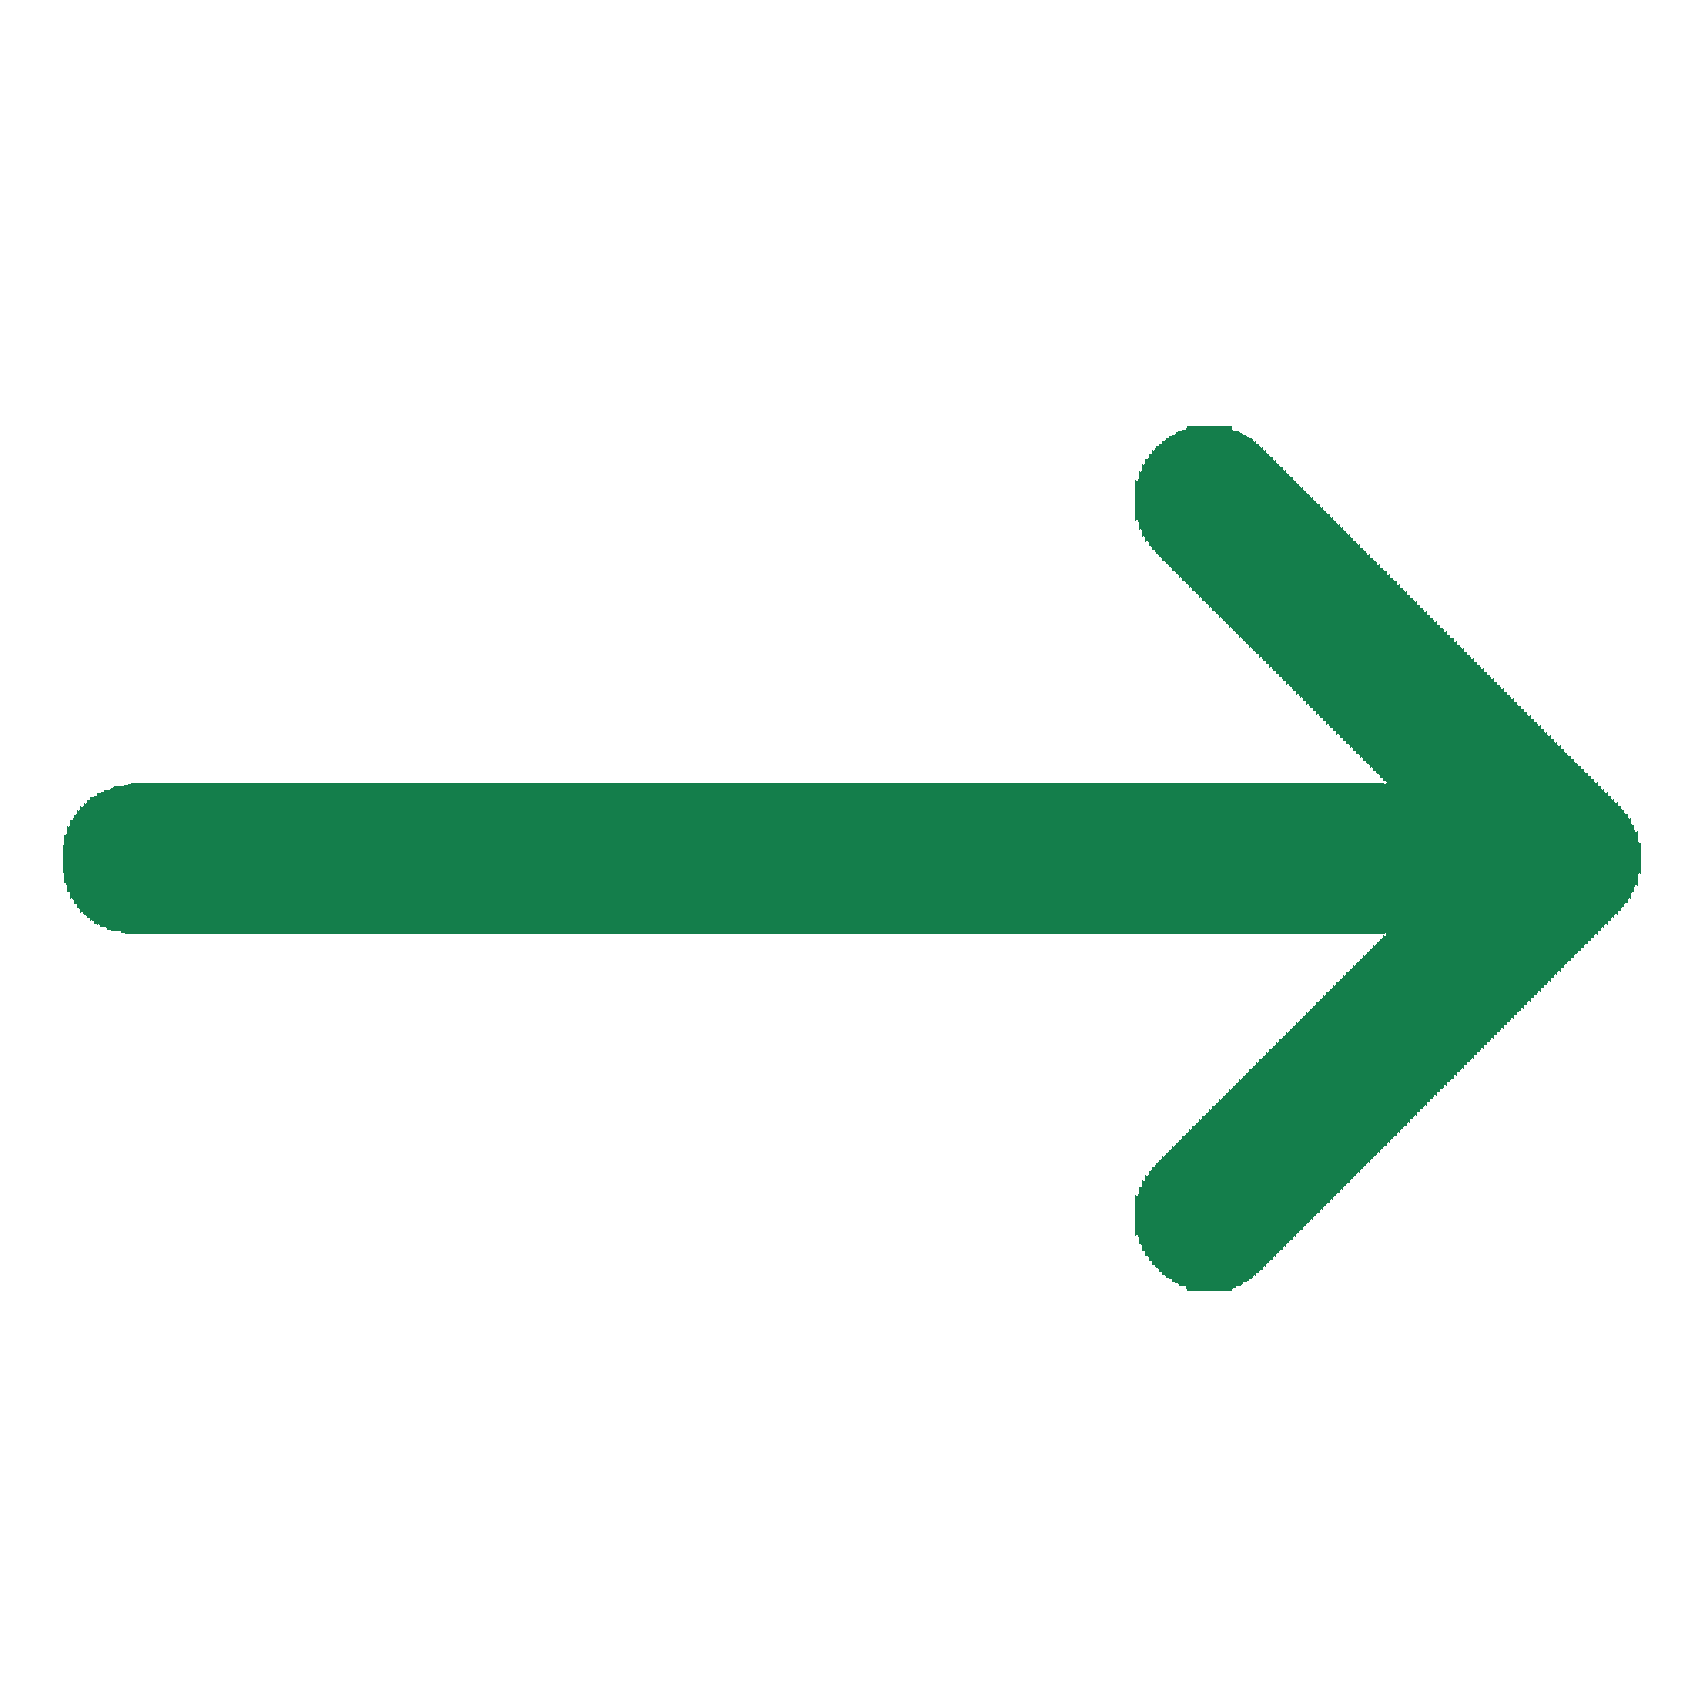
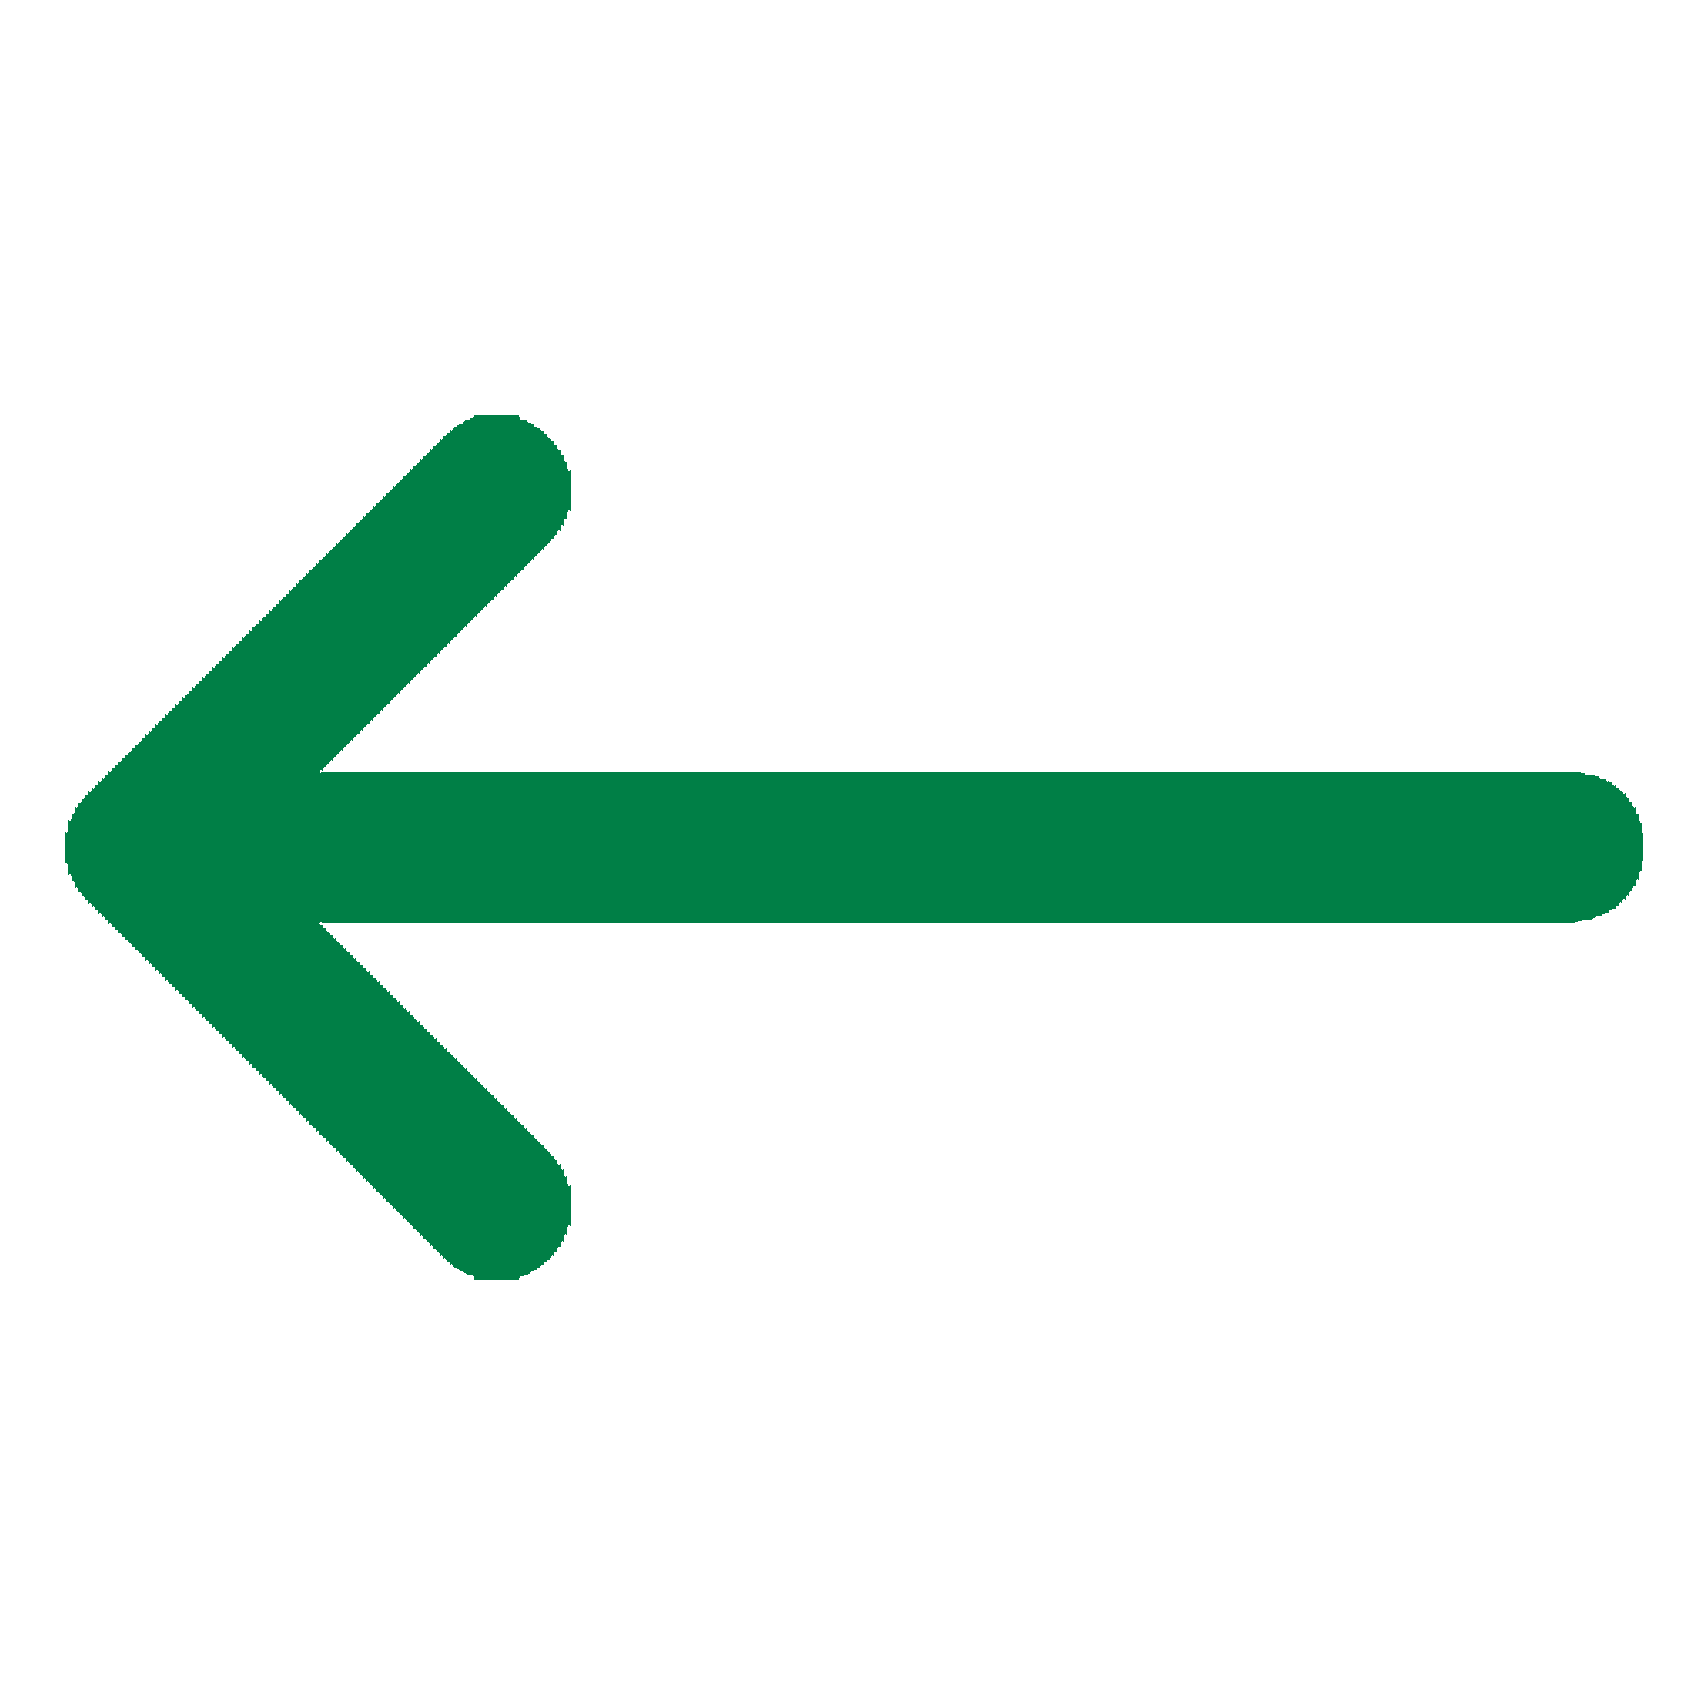
update style.css

Changed region(s): [[0.0311, 0.4971, 0.9631, 0.7767], [0.0621, 0.2175, 0.9631, 0.4971]]

diff --git a/styles/styles.css b/styles/styles.css
@@ -53,6 +53,7 @@ body{
 }
 
 .logo{
+    height: 30px;
     /*центрируем элемент по горизонтали*/
     margin: 0 auto;
 }
@@ -136,10 +137,11 @@ body{
     color: #147E4B;
 }
 
+
+
 .main_container_right_part{
     background-color: darkorange;
     height: 100%;
-    width: 300px;
     display: flex;
     flex-direction: column;
     justify-content: start;
@@ -152,11 +154,38 @@ body{
     flex-direction: row;
     justify-content: space-between;
     padding: 32px;
+    box-shadow: 0px 5px 10px rgba(0, 148, 63, 0.1);
 }
 
 .right_part_name_page{
     background-color: deeppink;
-    width: 50px;
+    display: flex;
+    flex-direction: row;
+    justify-content: start;
+}
+
+.name_page_ico{
+    /*центрируем элемент по вертикали*/
+    display: flex;
+    align-items: center;
+    background-color: gray;
+    margin-right: 16px;
+}
+
+.name_page_ico img{
+    width: 33px;
+    height: 32px;
+}
+
+.name_page_text{
+    background-color: red;
+    font-family: "Firasansregular";
+    font-size: 20px;
+    line-height: 24px;
+    letter-spacing: -0.4px;
+    /*центрируем элемент по вертикали*/
+    display: flex;
+    align-items: center;
 }
 
 .right_part_pictograms{
@@ -185,12 +214,4 @@ body{
     background-color: rgb(0, 99, 129);
     height: 100%;
 }
-
-
-
-
-
-.name_page_ico{}
-.name_page_text{}
-
 

diff --git a/index.html b/index.html
@@ -87,8 +87,12 @@
         <div class="main_container_right_part">
             <div class="right_part_navigation">
                 <div class="right_part_name_page">
-                    <div class="name_page_ico"></div>
-                    <div class="name_page_text"></div>
+                    <div class="name_page_ico">
+                        <a href="#"><img src="./images/arrow.png" alt="назад"></a>
+                    </div>
+                    <div class="name_page_text">
+                        <p>Название стр., на которой находимся</p>
+                    </div>
                 </div>
                 <div class="right_part_pictograms">
                     <div class="pictograms_item pictograms_item_first">
